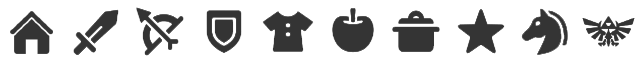
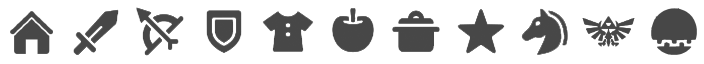
TOTK: added arrow editor

diff --git a/zelda-totk/zelda-totk.js b/zelda-totk/zelda-totk.js
@@ -60,9 +60,9 @@ SavegameEditor={
 			'power':		0x0004eed4,
 			'modifier':		0x000515bc
 		},
-		'arrows':{
+		'arrow':{
 			'id':0x000820ec,
-			'quantity':false
+			'quantity':0x00046ff4
 		},
 		'material':{
 			'id':0x000afbf4,
@@ -110,6 +110,7 @@ SavegameEditor={
 			'shields':this._readItemsComplex('shield'),
 			'bows':this._readItemsComplex('bow'),
 			'weapons':this._readItemsComplex('weapon'),
+			'arrows':this._readItemsSimple('arrow'),
 			'materials':this._readItemsSimple('material'),
 			'armors':this._readItemsSimple('armor'),
 			'food':this._readItemsSimple('food'),
@@ -121,6 +122,7 @@ SavegameEditor={
 		this._writeItemsComplex(items.shields, this.OffsetsItems.shield);
 		this._writeItemsComplex(items.bows, this.OffsetsItems.bow);
 		this._writeItemsComplex(items.weapons, this.OffsetsItems.weapon);
+		this._writeItemsSimple(items.arrows, this.OffsetsItems.arrow);
 		this._writeItemsSimple(items.materials, this.OffsetsItems.material);
 		this._writeItemsSimple(items.armors, this.OffsetsItems.armor);
 		this._writeItemsSimple(items.food, this.OffsetsItems.food);
@@ -331,7 +333,7 @@ SavegameEditor={
 			lastColumn.appendChild(input1);
 			lastColumn.appendChild(input2);
 			lastColumn.appendChild(input3);
-		}else if(item.quantity!==0xffffffff && (item.category==='material' || item.category==='food' || item.category==='device' || item.category==='key')){
+		}else if(item.quantity!==0xffffffff && (item.category==='arrow' || item.category==='material' || item.category==='food' || item.category==='device' || item.category==='key')){
 			var input=inputNumber('item-quantity-'+item.category+'-'+item.index, 1, 999, item.quantity);
 			input.addEventListener('change', function(){
 				var newVal=parseInt(this.value);
@@ -692,6 +694,7 @@ SavegameEditor={
 		this.currentItems=this._readItemsAll();
 		//this.currentItemsTest=this._readItemsNew();
 		empty('container-weapons');
+		empty('container-arrows');
 		empty('container-bows');
 		empty('container-shields');
 		empty('container-armors');
@@ -701,7 +704,7 @@ SavegameEditor={
 		empty('container-key');
 
 		/*var modifiersArray=[0,0,0];*/
-		var ITEM_CATS=['weapons','bows','shields','armors','materials','food','devices','key'];
+		var ITEM_CATS=['weapons','arrows','bows','shields','armors','materials','food','devices','key'];
 		
 		for(var i=0; i<ITEM_CATS.length; i++){
 			var itemCat=ITEM_CATS[i];
@@ -819,7 +822,7 @@ SavegameEditor={
 
 
 /* TABS */
-var availableTabs=['home','weapons','bows','shields','armors','materials','food','key','horses','master'];
+var availableTabs=['home','weapons','bows','shields','armors','materials','food','devices','key','horses','master'];
 
 
 var currentTab;

diff --git a/zelda-totk/index.html b/zelda-totk/index.html
@@ -51,6 +51,7 @@
 				<button id="tab-button-armors" title="Armors" class="tab-button" onclick="showTab('armors')"><i class="tab-icon clothes"></i></button>
 				<button id="tab-button-materials" title="Materials" class="tab-button" onclick="showTab('materials')"><i class="tab-icon materials"></i></button>
 				<button id="tab-button-food" title="Food" class="tab-button" onclick="showTab('food')"><i class="tab-icon food"></i></button>
+				<button id="tab-button-devices" title="Zonai devices" class="tab-button" onclick="showTab('devices')"><i class="tab-icon devices"></i></button>
 				<button id="tab-button-key" title="Key items" class="tab-button" onclick="showTab('key')"><i class="tab-icon other"></i></button>
 				<button id="tab-button-horses" title="Horses" class="tab-button" onclick="showTab('horses')" disabled><i class="tab-icon horses"></i></button>
 				<button id="tab-button-master" title="Master editor" class="tab-button" onclick="showTab('master')" disabled><i class="tab-icon master"></i></button>
@@ -252,6 +253,7 @@
 	<!-- TAB: BOWS -->
 	<div id="tab-bows">
 		<h3>Bows</h3><div id="container-bows"></div>
+		<h3>Arrows</h3><div id="container-arrows"></div>
 	</div>
 
 	<!-- TAB: SHIELDS -->
@@ -274,9 +276,13 @@
 		<h3>Food</h3><div id="container-food"></div>
 	</div>
 
+	<!-- TAB: ZONAI DEVICES -->
+	<div id="tab-devices">
+		<h3>Zonai devices</h3><div id="container-devices"></div>
+	</div>
+
 	<!-- TAB: KEY -->
 	<div id="tab-key">
-		<h3>Zonai devices</h3><div id="container-devices"></div>
 		<h3>Key items</h3><div id="container-key"></div>
 	</div>
 

diff --git a/zelda-totk/zelda-totk.data.js b/zelda-totk/zelda-totk.data.js
@@ -1252,6 +1252,8 @@ Item_Ore_M:"Large Zonaite",
 
 
 /* TOTK */
+Item_Enemy_67:"Bokoblin Horn",
+Item_Enemy_77:"Captain Construct I Horn",
 BombFruit:"Bomb Flower",
 ConfusionFruit:"Muddle Bud",
 ElectricalFruit:"Shock Fruit",
@@ -1497,6 +1499,7 @@ Item_Cook_S_09:"Dark Cake",
 Item_Cook_S_10:"Cheesy Tomato"
 }},
 		{id:'device',items:{
+SpObj_WindGenerator_Capsule_A_01:"Fan",
 SpObj_FlameThrower_Capsule_A_01:"Flame Emitter",
 SpObj_CookSet_Capsule_A_01:"Portable Pot",
 SpObj_LiftGeneratorWing_Capsule_A_01:"Wing",
@@ -1525,8 +1528,7 @@ SpObj_SpringPiston_Capsule_A_01:"SpObj_SpringPiston_Capsule_A_01",
 SpObj_SwitchWheel_B_01:"SpObj_SwitchWheel_B_01",
 SpObj_TiltingDoll_Capsule_A_01:"SpObj_TiltingDoll_Capsule_A_01",
 SpObj_TimerBomb_Capsule_A_01:"SpObj_TimerBomb_Capsule_A_01",
-SpObj_WaterPump_A_01:"SpObj_WaterPump_A_01",
-SpObj_WindGenerator_Capsule_A_01:"SpObj_WindGenerator_Capsule_A_01"
+SpObj_WaterPump_A_01:"SpObj_WaterPump_A_01"
 }},
 		{id:'key',items:{
 Obj_DungeonClearSeal:"Spirit Orb",

diff --git a/zelda-totk/zelda-totk.css b/zelda-totk/zelda-totk.css
@@ -163,7 +163,7 @@ i.tab-icon{
 	display:inline-block;
 	width:32px;height:32px;
 	background-image:url('assets/tabs.png');
-	background-size:320px;
+	background-size:352px;
 }
 i.tab-icon.home{background-position-x:-0px;}
 i.tab-icon.weapons{background-position-x:-32px;}
@@ -175,6 +175,7 @@ i.tab-icon.food{background-position-x:-192px;}
 i.tab-icon.other{background-position-x:-224px;}
 i.tab-icon.horses{background-position-x:-256px;}
 i.tab-icon.master{background-position-x:-288px;}
+i.tab-icon.devices{background-position-x:-320px;}
 
 
 
